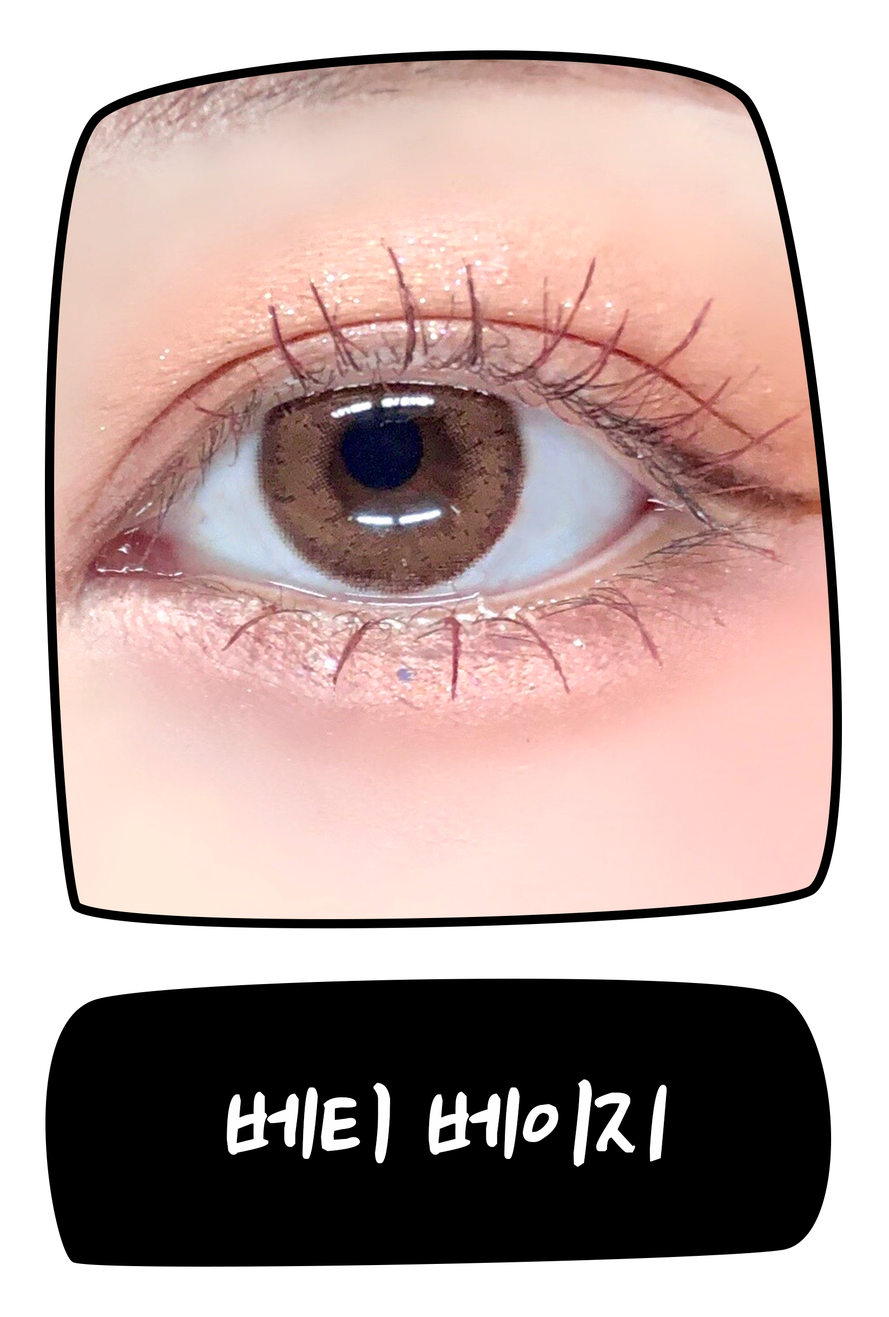
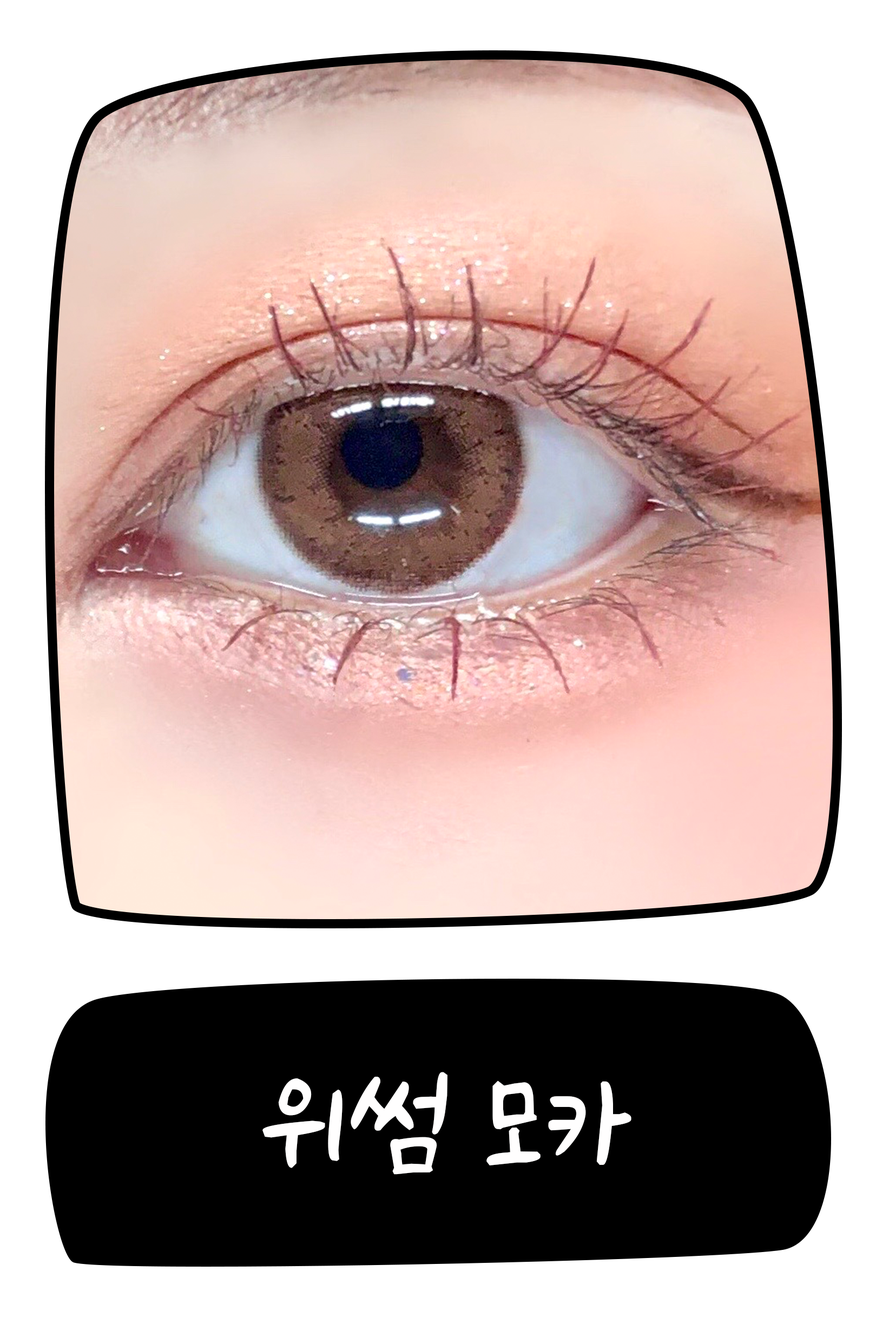
:bug: fix: 이미지 수정

Changed region(s): [[0.2483, 0.8122, 0.745, 0.9059]]

diff --git a/dist/assets/index.50f8f907.js b/dist/assets/index.50f8f907.js
@@ -55,4 +55,4 @@ Error generating stack: `+o.message+`
  *
  * This source code is licensed under the MIT license found in the
  * LICENSE file in the root directory of this source tree.
- */var nm=k.exports,rm=Symbol.for("react.element"),lm=Symbol.for("react.fragment"),om=Object.prototype.hasOwnProperty,im=nm.__SECRET_INTERNALS_DO_NOT_USE_OR_YOU_WILL_BE_FIRED.ReactCurrentOwner,um={key:!0,ref:!0,__self:!0,__source:!0};function Bc(e,t,n){var r,l={},o=null,i=null;n!==void 0&&(o=""+n),t.key!==void 0&&(o=""+t.key),t.ref!==void 0&&(i=t.ref);for(r in t)om.call(t,r)&&!um.hasOwnProperty(r)&&(l[r]=t[r]);if(e&&e.defaultProps)for(r in t=e.defaultProps,t)l[r]===void 0&&(l[r]=t[r]);return{$$typeof:rm,type:e,key:o,ref:i,props:l,_owner:im.current}}Al.Fragment=lm;Al.jsx=Bc;Al.jsxs=Bc;du.exports=Al;const c=du.exports.jsx,P=du.exports.jsxs,sm={name:"",responses:[0],updateName:e=>{},updateResponses:e=>{}},Se=k.exports.createContext(sm),am=({children:e})=>{const[t,n]=k.exports.useState(""),[r,l]=k.exports.useState([...Array(12).fill(0)]),o=u=>{n(u)},i=u=>{l(u)};return c(Se.Provider,{value:{responses:r,updateResponses:i,name:t,updateName:o},children:e})};var cm="/assets/title.b320a67b.png",fm="/assets/person.c0d96a02.png",dm="/assets/name-input.422c1c3e.png",pm="/assets/go-to-question.81cad484.png",z=(e=>(e.Cool="cool",e.Warm="warn",e.SpringWarm="spring-warm",e.SummerCool="summer-cool",e.AutumnWarm="autumn-warm",e.WinterCool="winter-cool",e))(z||{}),$=(e=>(e.home="/",e.q1="/q1",e.q2="/q2",e.q3="/q3",e.q4="/q4",e.q5="/q5",e.q6="/q6",e.q7="/q7",e.q8cool="/q8-cool",e.q9cool="/q9-cool",e.q10cool="/q10-cool",e.q11cool="/q11-cool",e.q8warm="/q8-warm",e.q9warm="/q9-warm",e.q10warm="/q10-warm",e.q11warm="/q11-warm",e.spring="/spring",e.summer="/summer",e.autumn="/autumn",e.winter="/winter",e))($||{});const mm={"1111":z.SummerCool,"1112":z.SummerCool,"1121":z.SummerCool,"1122":z.SummerCool,"1211":z.SummerCool,"1212":z.SummerCool,"2111":z.SummerCool,"2112":z.SummerCool,"1221":z.WinterCool,"1222":z.WinterCool,"2121":z.WinterCool,"2122":z.WinterCool,"2211":z.WinterCool,"2212":z.WinterCool,"2221":z.WinterCool,"2222":z.WinterCool},hm={"1111":z.SpringWarm,"1112":z.SpringWarm,"1121":z.SpringWarm,"1211":z.SpringWarm,"1212":z.SpringWarm,"2111":z.SpringWarm,"2112":z.SpringWarm,"2121":z.SpringWarm,"1122":z.AutumnWarm,"1221":z.AutumnWarm,"1222":z.AutumnWarm,"2122":z.AutumnWarm,"2211":z.AutumnWarm,"2212":z.AutumnWarm,"2221":z.AutumnWarm,"2222":z.AutumnWarm},pu=e=>{const t=[0,0],n=e.slice(1,7),r=e.slice(8,e.length);n.forEach(u=>{t[u-1]+=1});const l=t[0]>t[1];let o=l?z.Cool:z.Warm;if(r.every(u=>u>0)){const u=r.join("");o=l?mm[u]:hm[u]}return o},gr=(e,t)=>{const n=[...e];for(let r=t;r<n.length;r+=1)n[r]=0;return n},vm=(e,t)=>{if(!e||!t)return 640;const n=document.querySelector("body");return n?Math.floor(n.clientHeight/t*e):640};function se({children:e,isAllImageLoaded:t}){const[n,r]=k.exports.useState("100%"),l=k.exports.useRef(null);return k.exports.useEffect(()=>{if(!t||!l.current)return;const i=l.current,u=vm(i.offsetWidth,i.offsetHeight);r(`${u}px`)},[t]),c("div",{className:"container pt-10 pb-10",style:{maxWidth:n,visibility:n==="100%"?"hidden":"visible"},children:c("div",{className:"inner v-center",ref:l,children:e})})}function gm(){const[t,n]=k.exports.useState(0),[r,l]=k.exports.useState("5vw");k.exports.useEffect(()=>{t===4&&requestAnimationFrame(()=>{const a=document.querySelector(".wrapper > .container");l(`${a.offsetWidth*6.2*.01}px`)})},[t]);const o=pe(),i=k.exports.useRef(null),u=()=>{if(!i.current)return;const a=i.current;if(a.value.length===0){alert("\uC774\uB984\uC744 \uC785\uB825\uD574 \uC8FC\uC138\uC694");return}const m=/[`~!@#$%^&*|\\\'\";:\/?]/gi;if(a.value.length>5||m.test(a.value)){alert("\uC62C\uBC14\uB978 \uC785\uB825\uC744 \uC785\uB825\uD574 \uC8FC\uC138\uC694");return}localStorage.setItem("personal-color-name",a.value),o($.q1)};return c(se,{isAllImageLoaded:t===4,children:P("div",{className:"intro v-center",children:[c("img",{className:"title-img mb-5 mw-70",src:cm,alt:"",onLoad:()=>n(a=>a+1)}),c("img",{className:"person-img",src:fm,alt:"",onLoad:()=>n(a=>a+1)}),P("div",{className:"name-input-container",children:[c("input",{className:"name-input",type:"text",placeholder:"\uC790\uC2E0\uC758 \uC774\uB984\uC744 \uB123\uC5B4\uC8FC\uC138\uC694!",ref:i,style:{fontSize:r},onKeyUp:a=>{a.key==="Enter"&&u()}}),c("img",{className:"name-input-img",src:dm,alt:"",onLoad:()=>n(a=>a+1)})]}),c("button",{onClick:u,children:c("img",{src:pm,alt:"",onLoad:()=>n(a=>a+1)})})]})})}var ym="/assets/step1.7fd4f570.png",Cm="/assets/choice-1.f1bbb601.png",Sm="/assets/choice-2.368847a8.png",wm="/assets/choice-3.945d658c.png",km="/assets/choice-4.323f2f4e.png";function xm(){const[t,n]=k.exports.useState(0);return c(se,{isAllImageLoaded:t===5,children:P("div",{className:"q1 v-center",children:[c("img",{src:ym,alt:"",onLoad:()=>n(r=>r+1)}),P("div",{className:"grid-4",children:[c(ct,{to:"/q2",children:c("img",{src:Cm,alt:"",onLoad:()=>n(r=>r+1)})}),c(ct,{to:"/q2",children:c("img",{src:Sm,alt:"",onLoad:()=>n(r=>r+1)})}),c(ct,{to:"/q2",children:c("img",{src:wm,alt:"",onLoad:()=>n(r=>r+1)})}),c(ct,{to:"/q2",children:c("img",{src:km,alt:"",onLoad:()=>n(r=>r+1)})})]})]})})}var Em="/assets/step2.bb34f3c5.png",Nm="/assets/choice-1.9a3f9251.png",_m="/assets/choice-2.53bac21e.png",Lm="/assets/choice-3.be5fa2cf.png",Im="/assets/choice-4.f61bd6b5.png";function Pm(){const[t,n]=k.exports.useState(0);return c(se,{isAllImageLoaded:t===5,children:P("div",{className:"q2 v-center",children:[c("img",{src:Em,alt:"",onLoad:()=>n(r=>r+1)}),P("div",{className:"grid-4",children:[c(ct,{to:"/q3",children:c("img",{src:Nm,alt:"",onLoad:()=>n(r=>r+1)})}),c(ct,{to:"/q3",children:c("img",{src:_m,alt:"",onLoad:()=>n(r=>r+1)})}),c(ct,{to:"/q3",children:c("img",{src:Lm,alt:"",onLoad:()=>n(r=>r+1)})}),c(ct,{to:"/q3",children:c("img",{src:Im,alt:"",onLoad:()=>n(r=>r+1)})})]})]})})}var Tm="/assets/step3.1a94e347.png",Rm="/assets/choice-1.fb462d9c.png",zm="/assets/choice-2.e66ee84a.png";function $m(){const t=pe(),{responses:n,updateResponses:r}=k.exports.useContext(Se),[l,o]=k.exports.useState(0),i=u=>{const s=gr(n,3);s[3]=u,r([...s]),t($.q4)};return c(se,{isAllImageLoaded:l===3,children:P("div",{className:"q3 v-center",children:[c("img",{src:Tm,alt:"",onLoad:()=>o(u=>u+1)}),P("div",{className:"grid-2",children:[c("button",{onClick:()=>i(1),children:c("img",{src:Rm,alt:"",onLoad:()=>o(u=>u+1)})}),c("button",{onClick:()=>i(2),children:c("img",{src:zm,alt:"",onLoad:()=>o(u=>u+1)})})]})]})})}var Om="/assets/step4.4fedb30e.png",Mm="/assets/choice-1.fbe06a4c.png",Fm="/assets/choice-2.24c04e2b.png";function Dm(){const[t,n]=k.exports.useState(0),r=pe(),{responses:l,updateResponses:o}=k.exports.useContext(Se),i=u=>{const s=gr(l,4);s[4]=u,o([...s]),r($.q5)};return c(se,{isAllImageLoaded:t===3,children:P("div",{className:"q4 v-center",children:[c("img",{src:Om,alt:"",onLoad:()=>n(u=>u+1)}),P("div",{className:"grid-1",children:[c("button",{onClick:()=>i(1),children:c("img",{src:Mm,alt:"",onLoad:()=>n(u=>u+1)})}),c("button",{onClick:()=>i(2),children:c("img",{src:Fm,alt:"",onLoad:()=>n(u=>u+1)})})]})]})})}var jm="/assets/step5.b37e947b.png",Am="/assets/choice-1.41845d93.png",Wm="/assets/choice-2.dc16dc4f.png";function qm(){const[t,n]=k.exports.useState(0),r=pe(),{responses:l,updateResponses:o}=k.exports.useContext(Se),i=u=>{const s=gr(l,5);s[5]=u,o([...s]),r($.q6)};return c(se,{isAllImageLoaded:t===3,children:P("div",{className:"q5 v-center",children:[c("img",{src:jm,alt:"",onLoad:()=>n(u=>u+1)}),P("div",{className:"grid-2",children:[c("button",{onClick:()=>i(1),children:c("img",{src:Am,alt:"",onLoad:()=>n(u=>u+1)})}),c("button",{onClick:()=>i(2),children:c("img",{src:Wm,alt:"",onLoad:()=>n(u=>u+1)})})]})]})})}var Um="/assets/step6.c4ffe7eb.png",Vm="/assets/choice-1.13b7258e.png",Bm="/assets/choice-2.48f295a7.png";function Qm(){const[t,n]=k.exports.useState(0),r=pe(),{responses:l,updateResponses:o}=k.exports.useContext(Se),i=u=>{const s=gr(l,6);s[6]=u,o([...s]),r($.q7)};return c(se,{isAllImageLoaded:t===3,children:P("div",{className:"q6 v-center",children:[c("img",{src:Um,alt:"",onLoad:()=>n(u=>u+1)}),P("div",{className:"grid-1",children:[c("button",{onClick:()=>i(1),children:c("img",{src:Vm,alt:"",onLoad:()=>n(u=>u+1)})}),c("button",{onClick:()=>i(2),children:c("img",{src:Bm,alt:"",onLoad:()=>n(u=>u+1)})})]})]})})}var Hm="/assets/step7.3e4ac165.png",Km="/assets/choice-1.ce1addb3.png",Gm="/assets/choice-2.fdc874b6.png";function Ym(){const[t,n]=k.exports.useState(0),r=pe(),{responses:l,updateResponses:o}=k.exports.useContext(Se),i=u=>{const s=gr(l,7);s[7]=u,o([...s]);const a=pu(l);a===z.Cool?r($.q8cool):a===z.Warm&&r($.q8warm)};return c(se,{isAllImageLoaded:t===3,children:P("div",{className:"q7 v-center",children:[c("img",{src:Hm,alt:"",onLoad:()=>n(u=>u+1)}),P("div",{className:"grid-2",children:[c("button",{onClick:()=>i(1),children:c("img",{src:Km,alt:"",onLoad:()=>n(u=>u+1)})}),c("button",{onClick:()=>i(2),children:c("img",{src:Gm,alt:"",onLoad:()=>n(u=>u+1)})})]})]})})}var Xm="/assets/step8.e24d7c6a.png",Jm="/assets/choice-1.6d8bb0d2.png",Zm="/assets/choice-2.8bd38b55.png";function bm(){const[t,n]=k.exports.useState(0),r=pe(),{responses:l,updateResponses:o}=k.exports.useContext(Se),i=u=>{l[8]=u,o([...l]),r($.q9cool)};return c(se,{isAllImageLoaded:t===3,children:P("div",{className:"q8 q8-cool v-center",children:[c("img",{src:Xm,alt:"",onLoad:()=>n(u=>u+1)}),P("div",{className:"grid-2",children:[c("button",{onClick:()=>i(1),children:c("img",{src:Jm,alt:"",onLoad:()=>n(u=>u+1)})}),c("button",{onClick:()=>i(2),children:c("img",{src:Zm,alt:"",onLoad:()=>n(u=>u+1)})})]})]})})}var eh="/assets/step9.6b913a0a.png",th="/assets/choice-1.e86ce1df.png",nh="/assets/choice-2.797bdad2.png";function rh(){const[t,n]=k.exports.useState(0),r=pe(),{responses:l,updateResponses:o}=k.exports.useContext(Se),i=u=>{l[9]=u,o([...l]),r($.q10cool)};return c(se,{isAllImageLoaded:t===3,children:P("div",{className:"q9 q9-cool v-center",children:[c("img",{src:eh,alt:"",onLoad:()=>n(u=>u+1)}),P("div",{className:"grid-2",children:[c("button",{onClick:()=>i(1),children:c("img",{src:th,alt:"",onLoad:()=>n(u=>u+1)})}),c("button",{onClick:()=>i(2),children:c("img",{src:nh,alt:"",onLoad:()=>n(u=>u+1)})})]})]})})}var lh="/assets/step10.901c8a94.png",oh="/assets/choice-1.a5b64036.png",ih="/assets/choice-2.b1430a23.png";function uh(){const[t,n]=k.exports.useState(0),r=pe(),{responses:l,updateResponses:o}=k.exports.useContext(Se),i=u=>{l[10]=u,o([...l]),r($.q11cool)};return c(se,{isAllImageLoaded:t===3,children:P("div",{className:"q10 q10-cool v-center",children:[c("img",{src:lh,alt:"",onLoad:()=>n(u=>u+1)}),P("div",{className:"grid-2",children:[c("button",{onClick:()=>i(1),children:c("img",{src:oh,alt:"",onLoad:()=>n(u=>u+1)})}),c("button",{onClick:()=>i(2),children:c("img",{src:ih,alt:"",onLoad:()=>n(u=>u+1)})})]})]})})}var sh="/assets/step11.8abbc152.png",ah="/assets/choice-1.a5889088.png",ch="/assets/choice-2.38b2ceb5.png";function fh(){const[t,n]=k.exports.useState(0),r=pe(),{responses:l,updateResponses:o}=k.exports.useContext(Se),i=u=>{l[11]=u,o([...l]);const s=pu(l);s===z.SummerCool?r($.summer):s===z.WinterCool&&r($.winter)};return c(se,{isAllImageLoaded:t===3,children:P("div",{className:"q11 q11-cool v-center",children:[c("img",{src:sh,alt:"",onLoad:()=>n(u=>u+1)}),P("div",{className:"grid-1",children:[c("button",{onClick:()=>i(1),children:c("img",{src:ah,alt:"",onLoad:()=>n(u=>u+1)})}),c("button",{onClick:()=>i(2),children:c("img",{src:ch,alt:"",onLoad:()=>n(u=>u+1)})})]})]})})}var dh="/assets/step8.e24d7c6a.png",ph="/assets/choice-1.e1b171b7.png",mh="/assets/choice-2.4e192e6a.png";function hh(){const[t,n]=k.exports.useState(0),r=pe(),{responses:l,updateResponses:o}=k.exports.useContext(Se),i=u=>{l[8]=u,o([...l]),r($.q9warm)};return c(se,{isAllImageLoaded:t===3,children:P("div",{className:"q8 q8-cool v-center",children:[c("img",{src:dh,alt:"",onLoad:()=>n(u=>u+1)}),P("div",{className:"grid-2",children:[c("button",{onClick:()=>i(1),children:c("img",{src:ph,alt:"",onLoad:()=>n(u=>u+1)})}),c("button",{onClick:()=>i(2),children:c("img",{src:mh,alt:"",onLoad:()=>n(u=>u+1)})})]})]})})}var vh="/assets/step9.6b913a0a.png",gh="/assets/choice-1.c66d9533.png",yh="/assets/choice-2.b58baf1c.png";function Ch(){const[t,n]=k.exports.useState(0),r=pe(),{responses:l,updateResponses:o}=k.exports.useContext(Se),i=u=>{l[9]=u,o([...l]),r($.q10warm)};return c(se,{isAllImageLoaded:t===3,children:P("div",{className:"q9 q9-warm v-center",children:[c("img",{src:vh,alt:"",onLoad:()=>n(u=>u+1)}),P("div",{className:"grid-2",children:[c("button",{onClick:()=>i(1),children:c("img",{src:gh,alt:"",onLoad:()=>n(u=>u+1)})}),c("button",{onClick:()=>i(2),children:c("img",{src:yh,alt:"",onLoad:()=>n(u=>u+1)})})]})]})})}var Sh="/assets/step10.901c8a94.png",wh="/assets/choice-1.616b5b9e.png",kh="/assets/choice-2.bfdbbb21.png";function xh(){const[t,n]=k.exports.useState(0),r=pe(),{responses:l,updateResponses:o}=k.exports.useContext(Se),i=u=>{l[10]=u,o([...l]),r($.q11warm)};return c(se,{isAllImageLoaded:t===3,children:P("div",{className:"q10 q10-warm v-center",children:[c("img",{src:Sh,alt:"",onLoad:()=>n(u=>u+1)}),P("div",{className:"grid-2",children:[c("button",{onClick:()=>i(1),children:c("img",{src:wh,alt:"",onLoad:()=>n(u=>u+1)})}),c("button",{onClick:()=>i(2),children:c("img",{src:kh,alt:"",onLoad:()=>n(u=>u+1)})})]})]})})}var Eh="/assets/step11.8abbc152.png",Nh="/assets/choice-1.a0cf457a.png",_h="/assets/choice-2.de93bb79.png";function zs(){const[t,n]=k.exports.useState(0),r=pe(),{responses:l,updateResponses:o}=k.exports.useContext(Se),i=u=>{l[11]=u,o([...l]);const s=pu(l);s===z.SpringWarm?r($.spring):s===z.AutumnWarm&&r($.autumn)};return c(se,{isAllImageLoaded:t===3,children:P("div",{className:"q11 q11-warm v-center",children:[c("img",{src:Eh,alt:"",onLoad:()=>n(u=>u+1)}),P("div",{className:"grid-1",children:[c("button",{onClick:()=>i(1),children:c("img",{src:Nh,alt:"",onLoad:()=>n(u=>u+1)})}),c("button",{onClick:()=>i(2),children:c("img",{src:_h,alt:"",onLoad:()=>n(u=>u+1)})})]})]})})}var Lh="/assets/top-1.f3e4d067.png",Ih="/assets/top-2.459f9c1f.png",Ph="/assets/top-3.0c2eeb89.png",Th="/assets/bottom.d3c4c86b.png",Rh="/assets/choice-1.3d563c69.png",zh="/assets/choice-2.07327e9b.png",$h="/assets/load-more.14f849bf.png";function Oh(){const[e,t]=k.exports.useState("\uAE40\uCEEC\uB7EC");return k.exports.useEffect(()=>{const n=localStorage.getItem("personal-color-name");t(n!=null?n:"\uAE40\uCEEC\uB7EC");const r=document.querySelector("#root");if(!!r)return r.classList.contains("h100")&&r.classList.remove("h100"),()=>{!r.classList.contains("h100")&&r.classList.add("h100")}},[]),P("div",{className:"result-page result-summer-cool",children:[P("div",{className:"top",children:[c("div",{className:"text-center",children:c("img",{src:Lh})}),P("div",{className:"flex-center",children:[c("span",{children:e}),c("img",{src:Ih})]}),c("div",{children:c("img",{src:Ph})})]}),P("div",{className:"grid-2",children:[c("a",{href:"https://lenssis-kr.com/26/?idx=124",target:"_blank",rel:"noopener noreferrer",children:c("img",{src:Rh,alt:""})}),c("a",{href:"https://lenssis-kr.com/23/?idx=286",target:"_blank",rel:"noopener noreferrer",children:c("img",{src:zh,alt:""})})]}),c("img",{src:Th,alt:""}),c("a",{href:"https://lenssis-kr.com/personal_summer",target:"_blank",rel:"noopener noreferrer",children:c("img",{src:$h,alt:""})})]})}var Mh="/assets/top-1.f3e4d067.png",Fh="/assets/top-2.e0f09589.png",Dh="/assets/top-3.3382d361.png",jh="/assets/bottom.f97a679d.png",Ah="/assets/choice-1.3c7dea35.png",Wh="/assets/choice-2.0b5f2c5d.png",qh="/assets/load-more.c23df4ee.png";function Uh(){const[e,t]=k.exports.useState("\uAE40\uCEEC\uB7EC");return k.exports.useEffect(()=>{const n=localStorage.getItem("personal-color-name");t(n!=null?n:"\uAE40\uCEEC\uB7EC");const r=document.querySelector("#root");if(!!r)return r.classList.contains("h100")&&r.classList.remove("h100"),()=>{!r.classList.contains("h100")&&r.classList.add("h100")}},[]),P("div",{className:"result-page result-winter-cool",children:[P("div",{className:"top",children:[c("div",{className:"text-center",children:c("img",{src:Mh})}),P("div",{className:"flex-center",children:[c("span",{children:e}),c("img",{src:Fh})]}),c("div",{children:c("img",{src:Dh})})]}),P("div",{className:"grid-2",children:[c("a",{href:"https://lenssis-kr.com/23/?idx=288",target:"_blank",rel:"noopener noreferrer",children:c("img",{src:Ah,alt:""})}),c("a",{href:"https://lenssis-kr.com/26/?idx=241",target:"_blank",rel:"noopener noreferrer",children:c("img",{src:Wh,alt:""})})]}),c("img",{src:jh,alt:""}),c("a",{href:"https://lenssis-kr.com/personal_winter",target:"_blank",rel:"noopener noreferrer",children:c("img",{src:qh,alt:""})})]})}var Vh="/assets/top-1.f3e4d067.png",Bh="/assets/top-2.b9f4ad93.png",Qh="/assets/top-3.c9a879e3.png",Hh="/assets/bottom.2c0f8ebe.png",Kh="/assets/choice-1.90d3611f.png",Gh="/assets/choice-2.41ce3638.png",Yh="/assets/load-more.d5e1b2b1.png";function Xh(){const[e,t]=k.exports.useState("\uAE40\uCEEC\uB7EC");return k.exports.useEffect(()=>{const n=localStorage.getItem("personal-color-name");t(n!=null?n:"\uAE40\uCEEC\uB7EC");const r=document.querySelector("#root");if(!!r)return r.classList.contains("h100")&&r.classList.remove("h100"),()=>{!r.classList.contains("h100")&&r.classList.add("h100")}},[]),P("div",{className:"result-page result-spring-warm",children:[P("div",{className:"top",children:[c("div",{className:"text-center",children:c("img",{src:Vh})}),P("div",{className:"flex-center",children:[c("span",{children:e}),c("img",{src:Bh})]}),c("div",{children:c("img",{src:Qh})})]}),P("div",{className:"grid-2",children:[c("a",{href:"https://lenssis-kr.com/1502677752/?idx=230",target:"_blank",rel:"noopener noreferrer",children:c("img",{src:Kh,alt:""})}),c("a",{href:"https://lenssis-kr.com/23/?idx=302",target:"_blank",rel:"noopener noreferrer",children:c("img",{src:Gh,alt:""})})]}),c("img",{src:Hh,alt:""}),c("a",{href:"https://lenssis-kr.com/personal_spring",target:"_blank",rel:"noopener noreferrer",children:c("img",{src:Yh,alt:""})})]})}var Jh="/assets/top-1.f3e4d067.png",Zh="/assets/top-2.1c759565.png",bh="/assets/top-3.07126926.png",ev="/assets/bottom.8a1a007d.png",tv="/assets/choice-1.207065e6.png",nv="/assets/choice-2.202892cc.png",rv="/assets/load-more.7b0dfc7a.png";function lv(){const[e,t]=k.exports.useState("\uAE40\uCEEC\uB7EC");return k.exports.useEffect(()=>{const n=localStorage.getItem("personal-color-name");t(n!=null?n:"\uAE40\uCEEC\uB7EC");const r=document.querySelector("#root");if(!!r)return r.classList.contains("h100")&&r.classList.remove("h100"),()=>{!r.classList.contains("h100")&&r.classList.add("h100")}},[]),P("div",{className:"result-page result-autumn-warm",children:[P("div",{className:"top",children:[c("div",{className:"text-center",children:c("img",{src:Jh})}),P("div",{className:"flex-center",children:[c("span",{children:e}),c("img",{src:Zh})]}),c("div",{children:c("img",{src:bh})})]}),P("div",{className:"grid-2",children:[c("a",{href:"https://lenssis-kr.com/1502677752/?idx=170",target:"_blank",rel:"noopener noreferrer",children:c("img",{src:tv,alt:""})}),c("a",{href:"https://lenssis-kr.com/295/?idx=268",target:"_blank",rel:"noopener noreferrer",children:c("img",{src:nv,alt:""})})]}),c("img",{src:ev,alt:""}),c("a",{href:"https://lenssis-kr.com/personal_fall",target:"_blank",rel:"noopener noreferrer",children:c("img",{src:rv,alt:""})})]})}function ov(){const e=vr();return c(tm,{component:null,children:c(Gp,{classNames:"fade",timeout:600,children:P(hp,{location:e,children:[c(K,{path:$.home,element:c(gm,{})}),c(K,{path:$.q1,element:c(xm,{})}),c(K,{path:$.q2,element:c(Pm,{})}),c(K,{path:$.q3,element:c($m,{})}),c(K,{path:$.q4,element:c(Dm,{})}),c(K,{path:$.q5,element:c(qm,{})}),c(K,{path:$.q6,element:c(Qm,{})}),c(K,{path:$.q7,element:c(Ym,{})}),c(K,{path:$.q8cool,element:c(bm,{})}),c(K,{path:$.q9cool,element:c(rh,{})}),c(K,{path:$.q10cool,element:c(uh,{})}),c(K,{path:$.q11cool,element:c(fh,{})}),c(K,{path:$.q8warm,element:c(hh,{})}),c(K,{path:$.q9warm,element:c(Ch,{})}),c(K,{path:$.q10warm,element:c(xh,{})}),c(K,{path:$.q11warm,element:c(zs,{})}),c(K,{path:$.q11warm,element:c(zs,{})}),c(K,{path:$.summer,element:c(Oh,{})}),c(K,{path:$.winter,element:c(Uh,{})}),c(K,{path:$.spring,element:c(Xh,{})}),c(K,{path:$.autumn,element:c(lv,{})})]})},e.key)})}function iv(){return c("div",{className:"wrapper",children:c(am,{children:c(Wp,{children:c(ov,{})})})})}const $s=document.getElementById("root");$s&&jc($s).render(c(iv,{}));
+ */var nm=k.exports,rm=Symbol.for("react.element"),lm=Symbol.for("react.fragment"),om=Object.prototype.hasOwnProperty,im=nm.__SECRET_INTERNALS_DO_NOT_USE_OR_YOU_WILL_BE_FIRED.ReactCurrentOwner,um={key:!0,ref:!0,__self:!0,__source:!0};function Bc(e,t,n){var r,l={},o=null,i=null;n!==void 0&&(o=""+n),t.key!==void 0&&(o=""+t.key),t.ref!==void 0&&(i=t.ref);for(r in t)om.call(t,r)&&!um.hasOwnProperty(r)&&(l[r]=t[r]);if(e&&e.defaultProps)for(r in t=e.defaultProps,t)l[r]===void 0&&(l[r]=t[r]);return{$$typeof:rm,type:e,key:o,ref:i,props:l,_owner:im.current}}Al.Fragment=lm;Al.jsx=Bc;Al.jsxs=Bc;du.exports=Al;const c=du.exports.jsx,P=du.exports.jsxs,sm={name:"",responses:[0],updateName:e=>{},updateResponses:e=>{}},Se=k.exports.createContext(sm),am=({children:e})=>{const[t,n]=k.exports.useState(""),[r,l]=k.exports.useState([...Array(12).fill(0)]),o=u=>{n(u)},i=u=>{l(u)};return c(Se.Provider,{value:{responses:r,updateResponses:i,name:t,updateName:o},children:e})};var cm="/assets/title.b320a67b.png",fm="/assets/person.c0d96a02.png",dm="/assets/name-input.422c1c3e.png",pm="/assets/go-to-question.81cad484.png",z=(e=>(e.Cool="cool",e.Warm="warn",e.SpringWarm="spring-warm",e.SummerCool="summer-cool",e.AutumnWarm="autumn-warm",e.WinterCool="winter-cool",e))(z||{}),$=(e=>(e.home="/",e.q1="/q1",e.q2="/q2",e.q3="/q3",e.q4="/q4",e.q5="/q5",e.q6="/q6",e.q7="/q7",e.q8cool="/q8-cool",e.q9cool="/q9-cool",e.q10cool="/q10-cool",e.q11cool="/q11-cool",e.q8warm="/q8-warm",e.q9warm="/q9-warm",e.q10warm="/q10-warm",e.q11warm="/q11-warm",e.spring="/spring",e.summer="/summer",e.autumn="/autumn",e.winter="/winter",e))($||{});const mm={"1111":z.SummerCool,"1112":z.SummerCool,"1121":z.SummerCool,"1122":z.SummerCool,"1211":z.SummerCool,"1212":z.SummerCool,"2111":z.SummerCool,"2112":z.SummerCool,"1221":z.WinterCool,"1222":z.WinterCool,"2121":z.WinterCool,"2122":z.WinterCool,"2211":z.WinterCool,"2212":z.WinterCool,"2221":z.WinterCool,"2222":z.WinterCool},hm={"1111":z.SpringWarm,"1112":z.SpringWarm,"1121":z.SpringWarm,"1211":z.SpringWarm,"1212":z.SpringWarm,"2111":z.SpringWarm,"2112":z.SpringWarm,"2121":z.SpringWarm,"1122":z.AutumnWarm,"1221":z.AutumnWarm,"1222":z.AutumnWarm,"2122":z.AutumnWarm,"2211":z.AutumnWarm,"2212":z.AutumnWarm,"2221":z.AutumnWarm,"2222":z.AutumnWarm},pu=e=>{const t=[0,0],n=e.slice(1,7),r=e.slice(8,e.length);n.forEach(u=>{t[u-1]+=1});const l=t[0]>t[1];let o=l?z.Cool:z.Warm;if(r.every(u=>u>0)){const u=r.join("");o=l?mm[u]:hm[u]}return o},gr=(e,t)=>{const n=[...e];for(let r=t;r<n.length;r+=1)n[r]=0;return n},vm=(e,t)=>{if(!e||!t)return 640;const n=document.querySelector("body");return n?Math.floor(n.clientHeight/t*e):640};function se({children:e,isAllImageLoaded:t}){const[n,r]=k.exports.useState("100%"),l=k.exports.useRef(null);return k.exports.useEffect(()=>{if(!t||!l.current)return;const i=l.current,u=vm(i.offsetWidth,i.offsetHeight);r(`${u}px`)},[t]),c("div",{className:"container pt-10 pb-10",style:{maxWidth:n,visibility:n==="100%"?"hidden":"visible"},children:c("div",{className:"inner v-center",ref:l,children:e})})}function gm(){const[t,n]=k.exports.useState(0),[r,l]=k.exports.useState("5vw");k.exports.useEffect(()=>{t===4&&requestAnimationFrame(()=>{const a=document.querySelector(".wrapper > .container");l(`${a.offsetWidth*6.2*.01}px`)})},[t]);const o=pe(),i=k.exports.useRef(null),u=()=>{if(!i.current)return;const a=i.current;if(a.value.length===0){alert("\uC774\uB984\uC744 \uC785\uB825\uD574 \uC8FC\uC138\uC694");return}const m=/[`~!@#$%^&*|\\\'\";:\/?]/gi;if(a.value.length>5||m.test(a.value)){alert("\uC62C\uBC14\uB978 \uC785\uB825\uC744 \uC785\uB825\uD574 \uC8FC\uC138\uC694");return}localStorage.setItem("personal-color-name",a.value),o($.q1)};return c(se,{isAllImageLoaded:t===4,children:P("div",{className:"intro v-center",children:[c("img",{className:"title-img mb-5 mw-70",src:cm,alt:"",onLoad:()=>n(a=>a+1)}),c("img",{className:"person-img",src:fm,alt:"",onLoad:()=>n(a=>a+1)}),P("div",{className:"name-input-container",children:[c("input",{className:"name-input",type:"text",placeholder:"\uC790\uC2E0\uC758 \uC774\uB984\uC744 \uB123\uC5B4\uC8FC\uC138\uC694!",ref:i,style:{fontSize:r},onKeyUp:a=>{a.key==="Enter"&&u()}}),c("img",{className:"name-input-img",src:dm,alt:"",onLoad:()=>n(a=>a+1)})]}),c("button",{onClick:u,children:c("img",{src:pm,alt:"",onLoad:()=>n(a=>a+1)})})]})})}var ym="/assets/step1.7fd4f570.png",Cm="/assets/choice-1.f1bbb601.png",Sm="/assets/choice-2.368847a8.png",wm="/assets/choice-3.945d658c.png",km="/assets/choice-4.323f2f4e.png";function xm(){const[t,n]=k.exports.useState(0);return c(se,{isAllImageLoaded:t===5,children:P("div",{className:"q1 v-center",children:[c("img",{src:ym,alt:"",onLoad:()=>n(r=>r+1)}),P("div",{className:"grid-4",children:[c(ct,{to:"/q2",children:c("img",{src:Cm,alt:"",onLoad:()=>n(r=>r+1)})}),c(ct,{to:"/q2",children:c("img",{src:Sm,alt:"",onLoad:()=>n(r=>r+1)})}),c(ct,{to:"/q2",children:c("img",{src:wm,alt:"",onLoad:()=>n(r=>r+1)})}),c(ct,{to:"/q2",children:c("img",{src:km,alt:"",onLoad:()=>n(r=>r+1)})})]})]})})}var Em="/assets/step2.bb34f3c5.png",Nm="/assets/choice-1.9a3f9251.png",_m="/assets/choice-2.53bac21e.png",Lm="/assets/choice-3.be5fa2cf.png",Im="/assets/choice-4.f61bd6b5.png";function Pm(){const[t,n]=k.exports.useState(0);return c(se,{isAllImageLoaded:t===5,children:P("div",{className:"q2 v-center",children:[c("img",{src:Em,alt:"",onLoad:()=>n(r=>r+1)}),P("div",{className:"grid-4",children:[c(ct,{to:"/q3",children:c("img",{src:Nm,alt:"",onLoad:()=>n(r=>r+1)})}),c(ct,{to:"/q3",children:c("img",{src:_m,alt:"",onLoad:()=>n(r=>r+1)})}),c(ct,{to:"/q3",children:c("img",{src:Lm,alt:"",onLoad:()=>n(r=>r+1)})}),c(ct,{to:"/q3",children:c("img",{src:Im,alt:"",onLoad:()=>n(r=>r+1)})})]})]})})}var Tm="/assets/step3.1a94e347.png",Rm="/assets/choice-1.fb462d9c.png",zm="/assets/choice-2.e66ee84a.png";function $m(){const t=pe(),{responses:n,updateResponses:r}=k.exports.useContext(Se),[l,o]=k.exports.useState(0),i=u=>{const s=gr(n,3);s[3]=u,r([...s]),t($.q4)};return c(se,{isAllImageLoaded:l===3,children:P("div",{className:"q3 v-center",children:[c("img",{src:Tm,alt:"",onLoad:()=>o(u=>u+1)}),P("div",{className:"grid-2",children:[c("button",{onClick:()=>i(1),children:c("img",{src:Rm,alt:"",onLoad:()=>o(u=>u+1)})}),c("button",{onClick:()=>i(2),children:c("img",{src:zm,alt:"",onLoad:()=>o(u=>u+1)})})]})]})})}var Om="/assets/step4.4fedb30e.png",Mm="/assets/choice-1.fbe06a4c.png",Fm="/assets/choice-2.24c04e2b.png";function Dm(){const[t,n]=k.exports.useState(0),r=pe(),{responses:l,updateResponses:o}=k.exports.useContext(Se),i=u=>{const s=gr(l,4);s[4]=u,o([...s]),r($.q5)};return c(se,{isAllImageLoaded:t===3,children:P("div",{className:"q4 v-center",children:[c("img",{src:Om,alt:"",onLoad:()=>n(u=>u+1)}),P("div",{className:"grid-1",children:[c("button",{onClick:()=>i(1),children:c("img",{src:Mm,alt:"",onLoad:()=>n(u=>u+1)})}),c("button",{onClick:()=>i(2),children:c("img",{src:Fm,alt:"",onLoad:()=>n(u=>u+1)})})]})]})})}var jm="/assets/step5.b37e947b.png",Am="/assets/choice-1.41845d93.png",Wm="/assets/choice-2.dc16dc4f.png";function qm(){const[t,n]=k.exports.useState(0),r=pe(),{responses:l,updateResponses:o}=k.exports.useContext(Se),i=u=>{const s=gr(l,5);s[5]=u,o([...s]),r($.q6)};return c(se,{isAllImageLoaded:t===3,children:P("div",{className:"q5 v-center",children:[c("img",{src:jm,alt:"",onLoad:()=>n(u=>u+1)}),P("div",{className:"grid-2",children:[c("button",{onClick:()=>i(1),children:c("img",{src:Am,alt:"",onLoad:()=>n(u=>u+1)})}),c("button",{onClick:()=>i(2),children:c("img",{src:Wm,alt:"",onLoad:()=>n(u=>u+1)})})]})]})})}var Um="/assets/step6.c4ffe7eb.png",Vm="/assets/choice-1.13b7258e.png",Bm="/assets/choice-2.48f295a7.png";function Qm(){const[t,n]=k.exports.useState(0),r=pe(),{responses:l,updateResponses:o}=k.exports.useContext(Se),i=u=>{const s=gr(l,6);s[6]=u,o([...s]),r($.q7)};return c(se,{isAllImageLoaded:t===3,children:P("div",{className:"q6 v-center",children:[c("img",{src:Um,alt:"",onLoad:()=>n(u=>u+1)}),P("div",{className:"grid-1",children:[c("button",{onClick:()=>i(1),children:c("img",{src:Vm,alt:"",onLoad:()=>n(u=>u+1)})}),c("button",{onClick:()=>i(2),children:c("img",{src:Bm,alt:"",onLoad:()=>n(u=>u+1)})})]})]})})}var Hm="/assets/step7.3e4ac165.png",Km="/assets/choice-1.ce1addb3.png",Gm="/assets/choice-2.fdc874b6.png";function Ym(){const[t,n]=k.exports.useState(0),r=pe(),{responses:l,updateResponses:o}=k.exports.useContext(Se),i=u=>{const s=gr(l,7);s[7]=u,o([...s]);const a=pu(l);a===z.Cool?r($.q8cool):a===z.Warm&&r($.q8warm)};return c(se,{isAllImageLoaded:t===3,children:P("div",{className:"q7 v-center",children:[c("img",{src:Hm,alt:"",onLoad:()=>n(u=>u+1)}),P("div",{className:"grid-2",children:[c("button",{onClick:()=>i(1),children:c("img",{src:Km,alt:"",onLoad:()=>n(u=>u+1)})}),c("button",{onClick:()=>i(2),children:c("img",{src:Gm,alt:"",onLoad:()=>n(u=>u+1)})})]})]})})}var Xm="/assets/step8.e24d7c6a.png",Jm="/assets/choice-1.6d8bb0d2.png",Zm="/assets/choice-2.8bd38b55.png";function bm(){const[t,n]=k.exports.useState(0),r=pe(),{responses:l,updateResponses:o}=k.exports.useContext(Se),i=u=>{l[8]=u,o([...l]),r($.q9cool)};return c(se,{isAllImageLoaded:t===3,children:P("div",{className:"q8 q8-cool v-center",children:[c("img",{src:Xm,alt:"",onLoad:()=>n(u=>u+1)}),P("div",{className:"grid-2",children:[c("button",{onClick:()=>i(1),children:c("img",{src:Jm,alt:"",onLoad:()=>n(u=>u+1)})}),c("button",{onClick:()=>i(2),children:c("img",{src:Zm,alt:"",onLoad:()=>n(u=>u+1)})})]})]})})}var eh="/assets/step9.6b913a0a.png",th="/assets/choice-1.e86ce1df.png",nh="/assets/choice-2.797bdad2.png";function rh(){const[t,n]=k.exports.useState(0),r=pe(),{responses:l,updateResponses:o}=k.exports.useContext(Se),i=u=>{l[9]=u,o([...l]),r($.q10cool)};return c(se,{isAllImageLoaded:t===3,children:P("div",{className:"q9 q9-cool v-center",children:[c("img",{src:eh,alt:"",onLoad:()=>n(u=>u+1)}),P("div",{className:"grid-2",children:[c("button",{onClick:()=>i(1),children:c("img",{src:th,alt:"",onLoad:()=>n(u=>u+1)})}),c("button",{onClick:()=>i(2),children:c("img",{src:nh,alt:"",onLoad:()=>n(u=>u+1)})})]})]})})}var lh="/assets/step10.901c8a94.png",oh="/assets/choice-1.a5b64036.png",ih="/assets/choice-2.b1430a23.png";function uh(){const[t,n]=k.exports.useState(0),r=pe(),{responses:l,updateResponses:o}=k.exports.useContext(Se),i=u=>{l[10]=u,o([...l]),r($.q11cool)};return c(se,{isAllImageLoaded:t===3,children:P("div",{className:"q10 q10-cool v-center",children:[c("img",{src:lh,alt:"",onLoad:()=>n(u=>u+1)}),P("div",{className:"grid-2",children:[c("button",{onClick:()=>i(1),children:c("img",{src:oh,alt:"",onLoad:()=>n(u=>u+1)})}),c("button",{onClick:()=>i(2),children:c("img",{src:ih,alt:"",onLoad:()=>n(u=>u+1)})})]})]})})}var sh="/assets/step11.8abbc152.png",ah="/assets/choice-1.a5889088.png",ch="/assets/choice-2.38b2ceb5.png";function fh(){const[t,n]=k.exports.useState(0),r=pe(),{responses:l,updateResponses:o}=k.exports.useContext(Se),i=u=>{l[11]=u,o([...l]);const s=pu(l);s===z.SummerCool?r($.summer):s===z.WinterCool&&r($.winter)};return c(se,{isAllImageLoaded:t===3,children:P("div",{className:"q11 q11-cool v-center",children:[c("img",{src:sh,alt:"",onLoad:()=>n(u=>u+1)}),P("div",{className:"grid-1",children:[c("button",{onClick:()=>i(1),children:c("img",{src:ah,alt:"",onLoad:()=>n(u=>u+1)})}),c("button",{onClick:()=>i(2),children:c("img",{src:ch,alt:"",onLoad:()=>n(u=>u+1)})})]})]})})}var dh="/assets/step8.e24d7c6a.png",ph="/assets/choice-1.e1b171b7.png",mh="/assets/choice-2.4e192e6a.png";function hh(){const[t,n]=k.exports.useState(0),r=pe(),{responses:l,updateResponses:o}=k.exports.useContext(Se),i=u=>{l[8]=u,o([...l]),r($.q9warm)};return c(se,{isAllImageLoaded:t===3,children:P("div",{className:"q8 q8-cool v-center",children:[c("img",{src:dh,alt:"",onLoad:()=>n(u=>u+1)}),P("div",{className:"grid-2",children:[c("button",{onClick:()=>i(1),children:c("img",{src:ph,alt:"",onLoad:()=>n(u=>u+1)})}),c("button",{onClick:()=>i(2),children:c("img",{src:mh,alt:"",onLoad:()=>n(u=>u+1)})})]})]})})}var vh="/assets/step9.6b913a0a.png",gh="/assets/choice-1.c66d9533.png",yh="/assets/choice-2.b58baf1c.png";function Ch(){const[t,n]=k.exports.useState(0),r=pe(),{responses:l,updateResponses:o}=k.exports.useContext(Se),i=u=>{l[9]=u,o([...l]),r($.q10warm)};return c(se,{isAllImageLoaded:t===3,children:P("div",{className:"q9 q9-warm v-center",children:[c("img",{src:vh,alt:"",onLoad:()=>n(u=>u+1)}),P("div",{className:"grid-2",children:[c("button",{onClick:()=>i(1),children:c("img",{src:gh,alt:"",onLoad:()=>n(u=>u+1)})}),c("button",{onClick:()=>i(2),children:c("img",{src:yh,alt:"",onLoad:()=>n(u=>u+1)})})]})]})})}var Sh="/assets/step10.901c8a94.png",wh="/assets/choice-1.616b5b9e.png",kh="/assets/choice-2.bfdbbb21.png";function xh(){const[t,n]=k.exports.useState(0),r=pe(),{responses:l,updateResponses:o}=k.exports.useContext(Se),i=u=>{l[10]=u,o([...l]),r($.q11warm)};return c(se,{isAllImageLoaded:t===3,children:P("div",{className:"q10 q10-warm v-center",children:[c("img",{src:Sh,alt:"",onLoad:()=>n(u=>u+1)}),P("div",{className:"grid-2",children:[c("button",{onClick:()=>i(1),children:c("img",{src:wh,alt:"",onLoad:()=>n(u=>u+1)})}),c("button",{onClick:()=>i(2),children:c("img",{src:kh,alt:"",onLoad:()=>n(u=>u+1)})})]})]})})}var Eh="/assets/step11.8abbc152.png",Nh="/assets/choice-1.a0cf457a.png",_h="/assets/choice-2.de93bb79.png";function zs(){const[t,n]=k.exports.useState(0),r=pe(),{responses:l,updateResponses:o}=k.exports.useContext(Se),i=u=>{l[11]=u,o([...l]);const s=pu(l);s===z.SpringWarm?r($.spring):s===z.AutumnWarm&&r($.autumn)};return c(se,{isAllImageLoaded:t===3,children:P("div",{className:"q11 q11-warm v-center",children:[c("img",{src:Eh,alt:"",onLoad:()=>n(u=>u+1)}),P("div",{className:"grid-1",children:[c("button",{onClick:()=>i(1),children:c("img",{src:Nh,alt:"",onLoad:()=>n(u=>u+1)})}),c("button",{onClick:()=>i(2),children:c("img",{src:_h,alt:"",onLoad:()=>n(u=>u+1)})})]})]})})}var Lh="/assets/top-1.f3e4d067.png",Ih="/assets/top-2.459f9c1f.png",Ph="/assets/top-3.0c2eeb89.png",Th="/assets/bottom.7efbd81c.png",Rh="/assets/choice-1.3d563c69.png",zh="/assets/choice-2.07327e9b.png",$h="/assets/load-more.14f849bf.png";function Oh(){const[e,t]=k.exports.useState("\uAE40\uCEEC\uB7EC");return k.exports.useEffect(()=>{const n=localStorage.getItem("personal-color-name");t(n!=null?n:"\uAE40\uCEEC\uB7EC");const r=document.querySelector("#root");if(!!r)return r.classList.contains("h100")&&r.classList.remove("h100"),()=>{!r.classList.contains("h100")&&r.classList.add("h100")}},[]),P("div",{className:"result-page result-summer-cool",children:[P("div",{className:"top",children:[c("div",{className:"text-center",children:c("img",{src:Lh})}),P("div",{className:"flex-center",children:[c("span",{children:e}),c("img",{src:Ih})]}),c("div",{children:c("img",{src:Ph})})]}),P("div",{className:"grid-2",children:[c("a",{href:"https://lenssis-kr.com/26/?idx=124",target:"_blank",rel:"noopener noreferrer",children:c("img",{src:Rh,alt:""})}),c("a",{href:"https://lenssis-kr.com/23/?idx=286",target:"_blank",rel:"noopener noreferrer",children:c("img",{src:zh,alt:""})})]}),c("img",{src:Th,alt:""}),c("a",{href:"https://lenssis-kr.com/personal_summer",target:"_blank",rel:"noopener noreferrer",children:c("img",{src:$h,alt:""})})]})}var Mh="/assets/top-1.f3e4d067.png",Fh="/assets/top-2.e0f09589.png",Dh="/assets/top-3.3382d361.png",jh="/assets/bottom.ea2fe266.png",Ah="/assets/choice-1.3c7dea35.png",Wh="/assets/choice-2.0b5f2c5d.png",qh="/assets/load-more.c23df4ee.png";function Uh(){const[e,t]=k.exports.useState("\uAE40\uCEEC\uB7EC");return k.exports.useEffect(()=>{const n=localStorage.getItem("personal-color-name");t(n!=null?n:"\uAE40\uCEEC\uB7EC");const r=document.querySelector("#root");if(!!r)return r.classList.contains("h100")&&r.classList.remove("h100"),()=>{!r.classList.contains("h100")&&r.classList.add("h100")}},[]),P("div",{className:"result-page result-winter-cool",children:[P("div",{className:"top",children:[c("div",{className:"text-center",children:c("img",{src:Mh})}),P("div",{className:"flex-center",children:[c("span",{children:e}),c("img",{src:Fh})]}),c("div",{children:c("img",{src:Dh})})]}),P("div",{className:"grid-2",children:[c("a",{href:"https://lenssis-kr.com/23/?idx=288",target:"_blank",rel:"noopener noreferrer",children:c("img",{src:Ah,alt:""})}),c("a",{href:"https://lenssis-kr.com/26/?idx=241",target:"_blank",rel:"noopener noreferrer",children:c("img",{src:Wh,alt:""})})]}),c("img",{src:jh,alt:""}),c("a",{href:"https://lenssis-kr.com/personal_winter",target:"_blank",rel:"noopener noreferrer",children:c("img",{src:qh,alt:""})})]})}var Vh="/assets/top-1.f3e4d067.png",Bh="/assets/top-2.b9f4ad93.png",Qh="/assets/top-3.c9a879e3.png",Hh="/assets/bottom.2c0f8ebe.png",Kh="/assets/choice-1.90d3611f.png",Gh="/assets/choice-2.41ce3638.png",Yh="/assets/load-more.d5e1b2b1.png";function Xh(){const[e,t]=k.exports.useState("\uAE40\uCEEC\uB7EC");return k.exports.useEffect(()=>{const n=localStorage.getItem("personal-color-name");t(n!=null?n:"\uAE40\uCEEC\uB7EC");const r=document.querySelector("#root");if(!!r)return r.classList.contains("h100")&&r.classList.remove("h100"),()=>{!r.classList.contains("h100")&&r.classList.add("h100")}},[]),P("div",{className:"result-page result-spring-warm",children:[P("div",{className:"top",children:[c("div",{className:"text-center",children:c("img",{src:Vh})}),P("div",{className:"flex-center",children:[c("span",{children:e}),c("img",{src:Bh})]}),c("div",{children:c("img",{src:Qh})})]}),P("div",{className:"grid-2",children:[c("a",{href:"https://lenssis-kr.com/1502677752/?idx=230",target:"_blank",rel:"noopener noreferrer",children:c("img",{src:Kh,alt:""})}),c("a",{href:"https://lenssis-kr.com/23/?idx=302",target:"_blank",rel:"noopener noreferrer",children:c("img",{src:Gh,alt:""})})]}),c("img",{src:Hh,alt:""}),c("a",{href:"https://lenssis-kr.com/personal_spring",target:"_blank",rel:"noopener noreferrer",children:c("img",{src:Yh,alt:""})})]})}var Jh="/assets/top-1.f3e4d067.png",Zh="/assets/top-2.1c759565.png",bh="/assets/top-3.07126926.png",ev="/assets/bottom.8a1a007d.png",tv="/assets/choice-1.207065e6.png",nv="/assets/choice-2.202892cc.png",rv="/assets/load-more.7b0dfc7a.png";function lv(){const[e,t]=k.exports.useState("\uAE40\uCEEC\uB7EC");return k.exports.useEffect(()=>{const n=localStorage.getItem("personal-color-name");t(n!=null?n:"\uAE40\uCEEC\uB7EC");const r=document.querySelector("#root");if(!!r)return r.classList.contains("h100")&&r.classList.remove("h100"),()=>{!r.classList.contains("h100")&&r.classList.add("h100")}},[]),P("div",{className:"result-page result-autumn-warm",children:[P("div",{className:"top",children:[c("div",{className:"text-center",children:c("img",{src:Jh})}),P("div",{className:"flex-center",children:[c("span",{children:e}),c("img",{src:Zh})]}),c("div",{children:c("img",{src:bh})})]}),P("div",{className:"grid-2",children:[c("a",{href:"https://lenssis-kr.com/1502677752/?idx=170",target:"_blank",rel:"noopener noreferrer",children:c("img",{src:tv,alt:""})}),c("a",{href:"https://lenssis-kr.com/295/?idx=268",target:"_blank",rel:"noopener noreferrer",children:c("img",{src:nv,alt:""})})]}),c("img",{src:ev,alt:""}),c("a",{href:"https://lenssis-kr.com/personal_fall",target:"_blank",rel:"noopener noreferrer",children:c("img",{src:rv,alt:""})})]})}function ov(){const e=vr();return c(tm,{component:null,children:c(Gp,{classNames:"fade",timeout:600,children:P(hp,{location:e,children:[c(K,{path:$.home,element:c(gm,{})}),c(K,{path:$.q1,element:c(xm,{})}),c(K,{path:$.q2,element:c(Pm,{})}),c(K,{path:$.q3,element:c($m,{})}),c(K,{path:$.q4,element:c(Dm,{})}),c(K,{path:$.q5,element:c(qm,{})}),c(K,{path:$.q6,element:c(Qm,{})}),c(K,{path:$.q7,element:c(Ym,{})}),c(K,{path:$.q8cool,element:c(bm,{})}),c(K,{path:$.q9cool,element:c(rh,{})}),c(K,{path:$.q10cool,element:c(uh,{})}),c(K,{path:$.q11cool,element:c(fh,{})}),c(K,{path:$.q8warm,element:c(hh,{})}),c(K,{path:$.q9warm,element:c(Ch,{})}),c(K,{path:$.q10warm,element:c(xh,{})}),c(K,{path:$.q11warm,element:c(zs,{})}),c(K,{path:$.q11warm,element:c(zs,{})}),c(K,{path:$.summer,element:c(Oh,{})}),c(K,{path:$.winter,element:c(Uh,{})}),c(K,{path:$.spring,element:c(Xh,{})}),c(K,{path:$.autumn,element:c(lv,{})})]})},e.key)})}function iv(){return c("div",{className:"wrapper",children:c(am,{children:c(Wp,{children:c(ov,{})})})})}const $s=document.getElementById("root");$s&&jc($s).render(c(iv,{}));

diff --git a/dist/index.html b/dist/index.html
@@ -7,7 +7,7 @@
     <meta name="viewport" content="width=640,user-scalable=no,target-densitydpi=device-dpi">
     <title>Personal Color</title>
     <link href="https://fonts.googleapis.com/icon?family=Material+Icons" rel="stylesheet">
-    <script type="module" crossorigin src="/assets/index.bbe04906.js"></script>
+    <script type="module" crossorigin src="/assets/index.50f8f907.js"></script>
     <link rel="stylesheet" href="/assets/index.b4a381b0.css">
   </head>
   <body>
